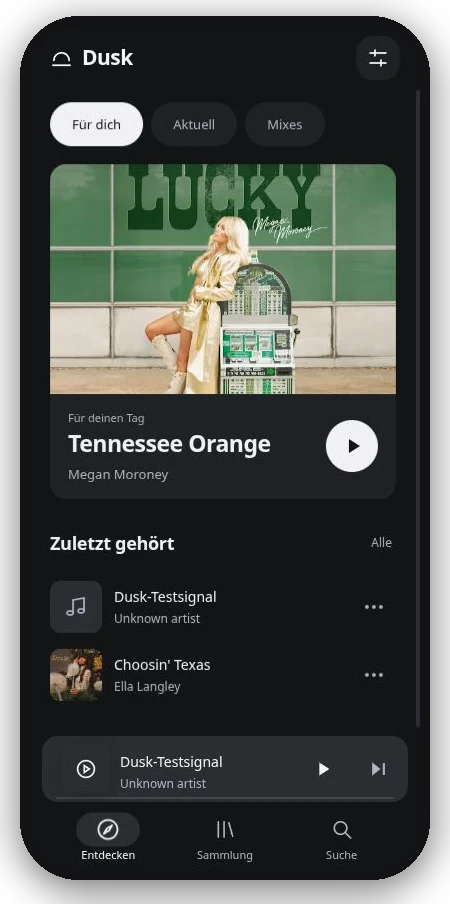
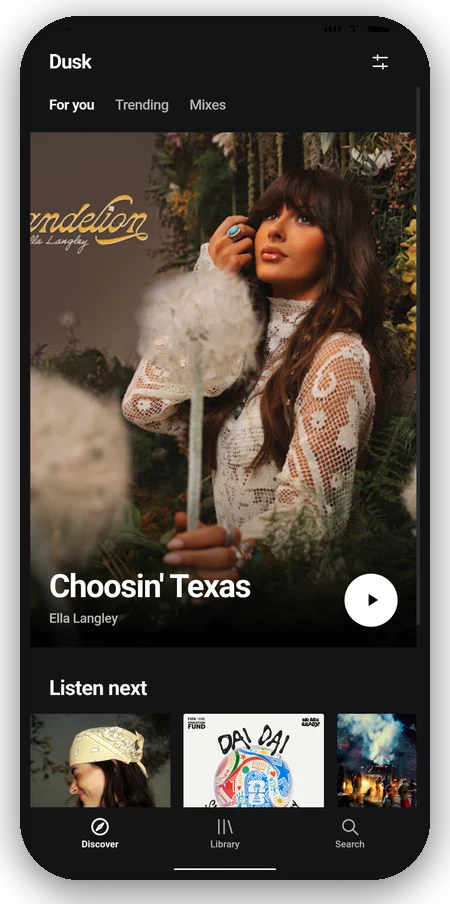
Refresh phone README previews from English Android emulator captures.

diff --git a/tools/make-readme-phone-shots.py b/tools/make-readme-phone-shots.py
@@ -1,0 +1,84 @@
+"""Build framed phone README shots from fresh emulator captures (English UI)."""
+from PIL import Image, ImageDraw, ImageFilter, ImageOps
+from pathlib import Path
+
+root = Path(__file__).resolve().parents[1]
+src = {
+    "home": root / "design/dusk/_emu/raw-home.png",
+    "player": root / "design/dusk/_emu/raw-player.png",
+    "settings": root / "design/dusk/_emu/raw-settings.png",
+}
+out_dir = root / "design/dusk"
+shots = root / "site/shots"
+shots.mkdir(parents=True, exist_ok=True)
+
+W, H = 390, 844
+RADIUS = 48
+BEZEL = 10
+PAD = 28
+
+
+def phone_frame(img: Image.Image) -> Image.Image:
+    img = ImageOps.fit(img.convert("RGBA"), (W, H), method=Image.Resampling.LANCZOS)
+    mask = Image.new("L", (W, H), 0)
+    d = ImageDraw.Draw(mask)
+    d.rounded_rectangle((0, 0, W, H), RADIUS, fill=255)
+    img.putalpha(mask)
+
+    frame = Image.new("RGBA", (W + BEZEL * 2, H + BEZEL * 2), (0, 0, 0, 0))
+    fmask = Image.new("L", frame.size, 0)
+    fd = ImageDraw.Draw(fmask)
+    fd.rounded_rectangle((0, 0, frame.size[0] - 1, frame.size[1] - 1), RADIUS + BEZEL, fill=255)
+    bezel_img = Image.new("RGBA", frame.size, (18, 18, 20, 255))
+    bezel_img.putalpha(fmask)
+    frame.alpha_composite(bezel_img)
+    frame.alpha_composite(img, (BEZEL, BEZEL))
+
+    shadow = Image.new("RGBA", (frame.size[0] + 40, frame.size[1] + 40), (0, 0, 0, 0))
+    sm = Image.new("L", shadow.size, 0)
+    sd = ImageDraw.Draw(sm)
+    sd.rounded_rectangle((20, 24, 20 + frame.size[0], 24 + frame.size[1]), RADIUS + BEZEL, fill=140)
+    sh = Image.new("RGBA", shadow.size, (0, 0, 0, 255))
+    sh.putalpha(sm)
+    sh = sh.filter(ImageFilter.GaussianBlur(18))
+    canvas = Image.new("RGBA", shadow.size, (0, 0, 0, 0))
+    canvas.alpha_composite(sh)
+    canvas.alpha_composite(frame, (20, 16))
+    return canvas
+
+
+phones = []
+for key, path in src.items():
+    if not path.exists():
+        raise SystemExit(f"missing {path}")
+    p = phone_frame(Image.open(path))
+    phones.append(p)
+    p.convert("RGB").save(out_dir / f"readme-ios-{key}.jpg", "JPEG", quality=92, optimize=True)
+    p.convert("RGB").save(shots / f"ios-{key}.jpg", "JPEG", quality=90, optimize=True)
+    p.save(shots / f"ios-{key}.webp", "WEBP", quality=88)
+
+gap = 36
+total_w = sum(p.size[0] for p in phones) + gap * (len(phones) - 1) + PAD * 2
+total_h = max(p.size[1] for p in phones) + PAD * 2
+bg = Image.new("RGB", (total_w, total_h), (12, 12, 14))
+pix = bg.load()
+for y in range(total_h):
+    t = y / max(total_h - 1, 1)
+    r = int(12 + 18 * t)
+    g = int(12 + 10 * t)
+    b = int(14 + 22 * t)
+    for x in range(total_w):
+        pix[x, y] = (r, g, b)
+
+collage = bg.convert("RGBA")
+x = PAD
+max_h = max(p.size[1] for p in phones)
+for p in phones:
+    y = PAD + (max_h - p.size[1]) // 2
+    collage.alpha_composite(p, (x, y))
+    x += p.size[0] + gap
+
+rgb = collage.convert("RGB")
+rgb.save(out_dir / "readme-ios-trio.jpg", "JPEG", quality=93, optimize=True)
+rgb.save(out_dir / "app-integrated.jpg", "JPEG", quality=93, optimize=True)
+print("wrote English phone previews", rgb.size)
